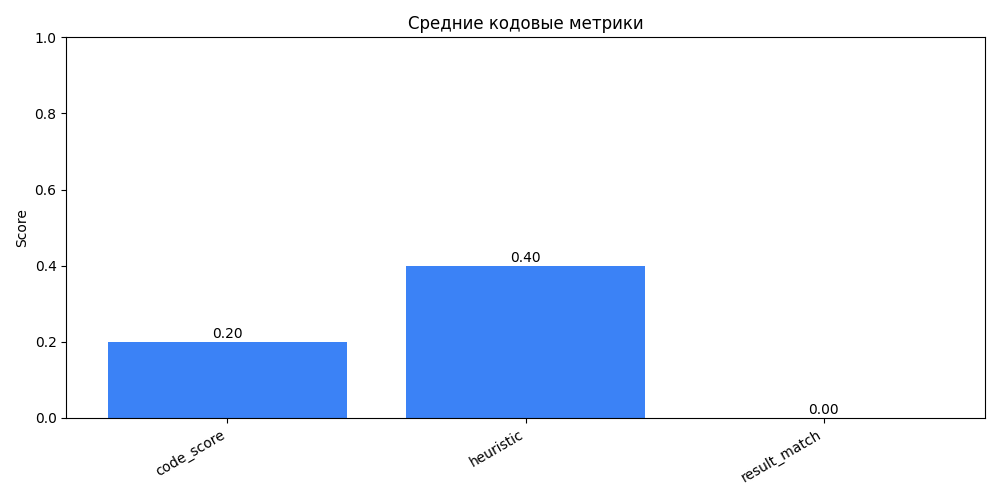
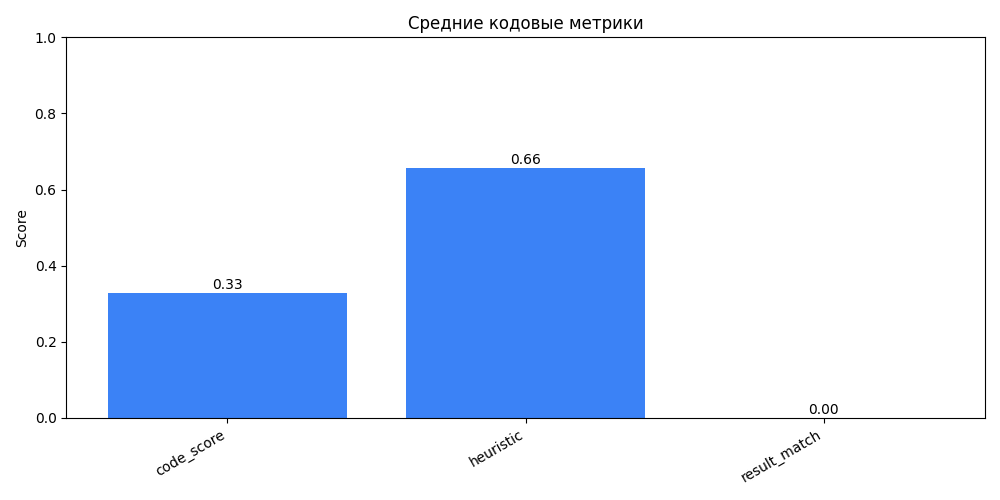
[SD-1579]feat: added bad words

Changed region(s): [[0.403, 0.3, 0.651, 0.54], [0.093, 0.54, 0.372, 0.69]]

diff --git a/core/workflow.py b/core/workflow.py
@@ -45,13 +45,18 @@ def _build_logit_bias(forbidden_strings: list[str] | None = None) -> dict[int, f
 
 
 def _sampling_with_forbidden(**kwargs) -> SamplingParams:
-    """Helper to include logit_bias for forbidden strings when building SamplingParams."""
+    """Helper to include forbidden strings via bad_words (preferred) or logit_bias."""
 
     forbidden_strings = kwargs.pop("forbidden_strings", None)
-    logit_bias = _build_logit_bias(forbidden_strings)
+    use_bad_words = kwargs.pop("use_bad_words", True)
 
-    if logit_bias:
-        kwargs["logit_bias"] = logit_bias
+    if forbidden_strings:
+        if use_bad_words:
+            kwargs["bad_words"] = list(dict.fromkeys(forbidden_strings))
+
+        logit_bias = _build_logit_bias(forbidden_strings)
+        if logit_bias:
+            kwargs.setdefault("logit_bias", logit_bias)
 
     return SamplingParams(**kwargs)
 
@@ -201,6 +206,7 @@ def generate_code_node(state: AgentState) -> AgentState:
             "pandas.read_csv",
         ],
     )
+    use_bad_words = state.get("forbidden_use_bad_words", True)
 
     sampling_params = _sampling_with_forbidden(
         max_tokens=512,
@@ -211,6 +217,7 @@ def generate_code_node(state: AgentState) -> AgentState:
         presence_penalty=0.5,
         seed=42,
         forbidden_strings=forbidden_strings,
+        use_bad_words=use_bad_words,
     )
 
     outputs = llm.generate([code_prompt], sampling_params)

diff --git a/core/evaluation/report_3_code_forbidden_functions/cases_report_en.md b/core/evaluation/report_3_code_forbidden_functions/cases_report_en.md
@@ -70,7 +70,7 @@ data = {
     'species': ['setosa', 'versicolor', 'virginica', 'setosa', 'versicolor']
 }
 
-df = pd.Dataframe(data)
+df = pd.DataFrame(data)
 
 # Вычисление статистики по датасету
 statistics = df.describe()
@@ -82,7 +82,7 @@ result = f"Статистика по датасету:\n{statistics}"
 - model_error:
  
 ```python
-execution_error: module 'pandas' has no attribute 'Dataframe'
+None
 ```
 
 
@@ -92,7 +92,7 @@ execution_error: module 'pandas' has no attribute 'Dataframe'
   - heuristic_score: 0.9
     - syntax_check: 0.3 (ok=True)
     - imports_score: 0.2 | expected:  | model: pandas | matched: 
-    - calls_score: 0.4 | expected: describe | model: Dataframe, describe | matched: describe
+    - calls_score: 0.4 | expected: describe | model: DataFrame, describe | matched: describe
   - result_match: False
 
 ### code_002_pairplot (code_generation, language: en, difficulty: medium)
@@ -163,9 +163,8 @@ model.fit(X, y)
 - expected_result:
  
 ```python
-None
+LogisticRegression(max_iter=200)
 ```
-- expected_output: Графический вывод
 - expected_error: None
 
 
@@ -184,7 +183,7 @@ data = {
 }
 
 # Создание DataFrame
-df = pd.Dataframe(data)
+df = pd.DataFrame(data)
 
 # Обучение классификатора
 from sklearn.model_selection import train_test_split
@@ -202,23 +201,27 @@ model.fit(X_train, y_train)
 
 # Проверка точности модели
 accuracy = model.score(X_test, y_test)
- print(f"Accuracy: {accuracy:.2f}")
+prediction = model.predict(X_test)
+correct_predictions = sum(prediction == y_test)
+
+# Вывод результатов
+result = f"Accuracy: {accuracy:.2f}, Correct predictions: {correct_predictions}"
 ```
 - model_result: None
 - model_error:
  
 ```python
-syntax_error
+None
 ```
 
 
 **Метрики:**
 - decision_score: True
-- code_score: 0.0
-  - heuristic_score: 0.0
-    - syntax_check: 0.0 (ok=False)
-    - imports_score: 0.0 | expected:  | model:  | matched: 
-    - calls_score: 0.0 | expected:  | model:  | matched: 
+- code_score: 0.383
+  - heuristic_score: 0.767
+    - syntax_check: 0.3 (ok=True)
+    - imports_score: 0.2 | expected: sklearn.linear_model | model: pandas, sklearn.linear_model, sklearn.model_selection | matched: sklearn.linear_model
+    - calls_score: 0.267 | expected: LogisticRegression, drop, fit | model: DataFrame, LogisticRegression, fit, predict, score, sum, train_test_split | matched: LogisticRegression, fit
   - result_match: False
 
 ### chat_001_what_is_iris (chat_response, language: en, difficulty: easy)
@@ -281,7 +284,7 @@ iris_data = {
 }
 
 # Создание DataFrame
-df = pd.DataFrames(iris_data)
+df = pd.DataFrame(iris_data)
 
 # Выбор признаков для разделяения видов ирисов
 feature_to_split = ['sepal_length', 'sepal_width']

diff --git a/core/evaluation/report_3_code_forbidden_functions/cases_report_ru.md b/core/evaluation/report_3_code_forbidden_functions/cases_report_ru.md
@@ -70,7 +70,7 @@ data = {
     'species': ['setosa', 'versicolor', 'virginica', 'setosa', 'versicolor']
 }
 
-df = pd.Dataframe(data)
+df = pd.DataFrame(data)
 
 # Вычисление статистики по датасету
 statistics = df.describe()
@@ -82,7 +82,7 @@ result = f"Статистика по датасету:\n{statistics}"
 - model_error:
  
 ```python
-execution_error: module 'pandas' has no attribute 'Dataframe'
+None
 ```
 
 
@@ -92,7 +92,7 @@ execution_error: module 'pandas' has no attribute 'Dataframe'
   - heuristic_score: 0.9
     - syntax_check: 0.3 (ok=True)
     - imports_score: 0.2 | expected:  | model: pandas | matched: 
-    - calls_score: 0.4 | expected: describe | model: Dataframe, describe | matched: describe
+    - calls_score: 0.4 | expected: describe | model: DataFrame, describe | matched: describe
   - result_match: False
 
 ### code_002_pairplot (code_generation, language: ru, difficulty: medium)
@@ -163,9 +163,8 @@ model.fit(X, y)
 - expected_result:
  
 ```python
-None
+LogisticRegression(max_iter=200)
 ```
-- expected_output: Графический вывод
 - expected_error: None
 
 
@@ -184,7 +183,7 @@ data = {
 }
 
 # Создание DataFrame
-df = pd.Dataframe(data)
+df = pd.DataFrame(data)
 
 # Обучение классификатора
 from sklearn.model_selection import train_test_split
@@ -202,23 +201,27 @@ model.fit(X_train, y_train)
 
 # Проверка точности модели
 accuracy = model.score(X_test, y_test)
- print(f"Accuracy: {accuracy:.2f}")
+prediction = model.predict(X_test)
+correct_predictions = sum(prediction == y_test)
+
+# Вывод результатов
+result = f"Accuracy: {accuracy:.2f}, Correct predictions: {correct_predictions}"
 ```
 - model_result: None
 - model_error:
  
 ```python
-syntax_error
+None
 ```
 
 
 **Метрики:**
 - decision_score: True
-- code_score: 0.0
-  - heuristic_score: 0.0
-    - syntax_check: 0.0 (ok=False)
-    - imports_score: 0.0 | expected:  | model:  | matched: 
-    - calls_score: 0.0 | expected:  | model:  | matched: 
+- code_score: 0.383
+  - heuristic_score: 0.767
+    - syntax_check: 0.3 (ok=True)
+    - imports_score: 0.2 | expected: sklearn.linear_model | model: pandas, sklearn.linear_model, sklearn.model_selection | matched: sklearn.linear_model
+    - calls_score: 0.267 | expected: LogisticRegression, drop, fit | model: DataFrame, LogisticRegression, fit, predict, score, sum, train_test_split | matched: LogisticRegression, fit
   - result_match: False
 
 ### chat_001_what_is_iris (chat_response, language: ru, difficulty: easy)
@@ -285,7 +288,7 @@ iris_data = {
 }
 
 # Создание DataFrame
-df = pd.DataFrames(iris_data)
+df = pd.DataFrame(iris_data)
 
 # Выбор признаков для разделяения видов ирисов
 feature_to_split = ['sepal_length', 'sepal_width']
